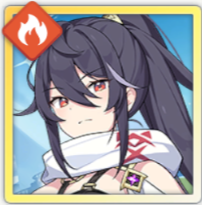
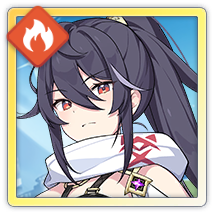
edit: charicon

diff --git a/src/components/feature/PartySlot.jsx b/src/components/feature/PartySlot.jsx
@@ -175,7 +175,7 @@ const PartySlot = ({
     // 【修正】素質数計算ロジック: 完全防衛
     const totalPoints = useMemo(() => {
         // データが null/undefined でないことを確認
-        if (!safePotentialsData) return 0;
+        if (!safePotentialsData || typeof safePotentialsData !== 'object') return 0;
 
         try {
             return Object.entries(safePotentialsData)
@@ -205,7 +205,7 @@ const PartySlot = ({
                 
                 {/* 左側: キャラ情報 */}
                 <div className={`
-                    md:w-64 flex-shrink-0 p-4 transition-all duration-300 relative overflow-hidden shadow-md
+                    md:w-60 flex-shrink-0 p-4 transition-all duration-300 relative overflow-hidden shadow-md
                     ${selectedChar ? `bg-gradient-to-br ${selectedChar.element.color}` : 'bg-slate-800'}
                 `}>
                     <div className="flex flex-row md:flex-col h-full items-center md:items-start justify-between relative z-10 gap-4">
@@ -217,34 +217,37 @@ const PartySlot = ({
                             
                             <button 
                                 onClick={() => setIsModalOpen(true)}
-                                className="flex md:flex-col items-center md:items-start gap-3 group text-left hover:bg-black/20 p-2 -m-2 rounded-lg transition-colors w-full"
+                                // -m-2 を削除し、p-2とボーダーを追加してマージンを整える
+                                className="flex md:flex-col items-center md:items-start gap-3 group text-left hover:bg-black/20 p-2 rounded-xl transition-colors w-full border border-transparent hover:border-white/10"
                             >
                                 <div className="flex-shrink-0">
                                     {selectedChar ? (
-                                        <CharacterIcon char={selectedChar} size="xl" className="group-hover:border-white/50 transition-colors shadow-2xl" />
+                                        <CharacterIcon char={selectedChar} size="2xl" className="group-hover:border-white/50 transition-colors shadow-2xl" />
                                     ) : (
-                                        <div className="w-16 h-16 md:w-20 md:h-20 rounded-lg bg-black/30 border border-white/20 flex items-center justify-center">
-                                            <User size={32} className="text-white/50" />
+                                        <div className="w-24 h-24 md:w-28 md:h-28 rounded-lg bg-black/30 border border-white/20 flex items-center justify-center">
+                                            <User size={48} className="text-white/50" />
                                         </div>
                                     )}
                                 </div>
 
                                 <div className="min-w-0 flex-1 w-full z-10">
                                     {selectedChar ? (
-                                        <div className="bg-slate-900/60 rounded-lg p-3 backdrop-blur-sm border border-white/10 shadow-lg">
-                                            <div className="font-bold text-xl md:text-2xl text-white group-hover:text-yellow-200 transition-colors truncate shadow-black drop-shadow-sm mb-1">
+                                        <div className="bg-slate-900/60 rounded-lg p-2 backdrop-blur-sm border border-white/10 shadow-lg">
+                                            <div className="font-bold text-lg md:text-xl text-white group-hover:text-yellow-200 transition-colors truncate shadow-black drop-shadow-sm mb-0.5">
                                                 {selectedChar.name}
                                             </div>
                                             <div className="flex items-center gap-2 text-xs text-white/90">
-                                                <RankStars rank={selectedChar.rank} size={12} />
+                                                <RankStars rank={selectedChar.rank} size={10} />
                                                 <span className="opacity-70">|</span>
-                                                <span>{selectedChar.role}</span>
+                                                <span className="text-[10px]">{selectedChar.role}</span>
                                             </div>
                                             
-                                            <div className="mt-3 pt-3 border-t border-white/20 hidden md:block">
-                                                <div className="text-xs text-white/80 mb-1">{t('slot.totalPoints')}</div>
-                                                <div className="text-2xl font-bold text-white font-mono">
-                                                    {totalPoints}
+                                            <div className="mt-2 pt-2 border-t border-white/20 hidden md:block">
+                                                <div className="flex justify-between items-baseline">
+                                                    <div className="text-[10px] text-white/80">{t('slot.totalPoints')}</div>
+                                                    <div className="text-xl font-bold text-white font-mono">
+                                                        {totalPoints}
+                                                    </div>
                                                 </div>
                                             </div>
                                         </div>

diff --git a/src/components/ui/CharacterIcon.jsx b/src/components/ui/CharacterIcon.jsx
@@ -8,7 +8,8 @@ const CharacterIcon = ({ char, size = "md", className = "" }) => {
         sm: "w-8 h-8",
         md: "w-12 h-12",
         lg: "w-16 h-16",
-        xl: "w-20 h-20" 
+        xl: "w-20 h-20", 
+        "2xl": "w-24 h-24 md:w-28 md:h-28" // 追加: より大きなサイズ
     };
 
     const containerSize = sizeClasses[size] || sizeClasses.md;
@@ -18,7 +19,8 @@ const CharacterIcon = ({ char, size = "md", className = "" }) => {
             <img 
                 src={char.imagePath} 
                 alt={char.name} 
-                className={`object-cover rounded-lg border-2 border-slate-600 bg-slate-800 ${containerSize} ${className}`}
+                // border-2 border-white/20 を削除しました
+                className={`object-cover rounded-lg ${containerSize} ${className}`}
                 onError={() => setImgError(true)}
             />
         );
